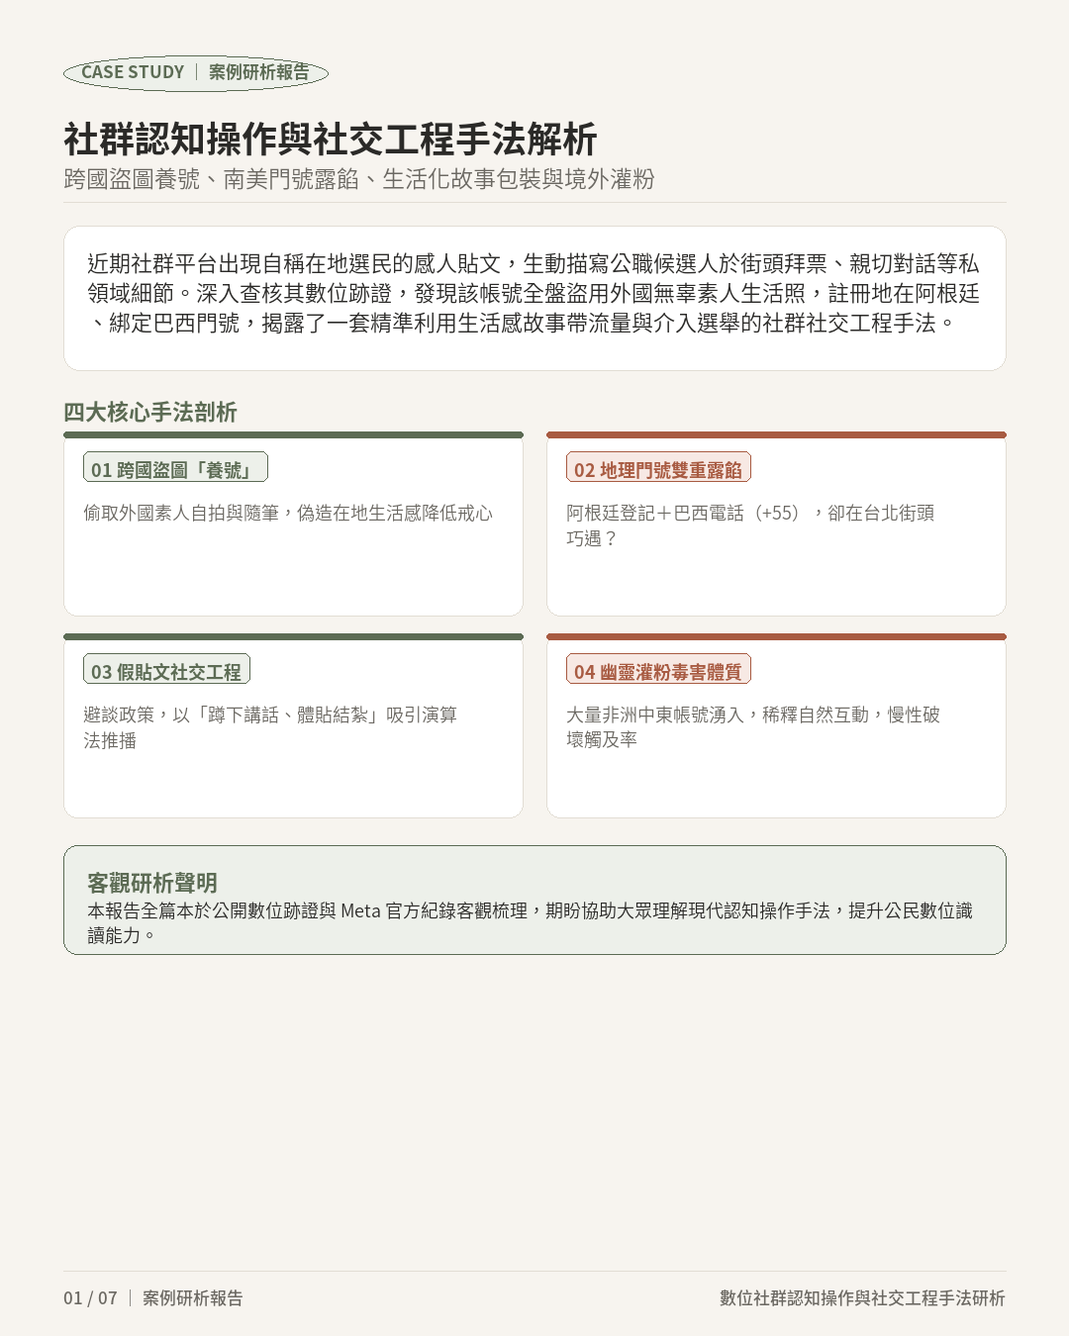
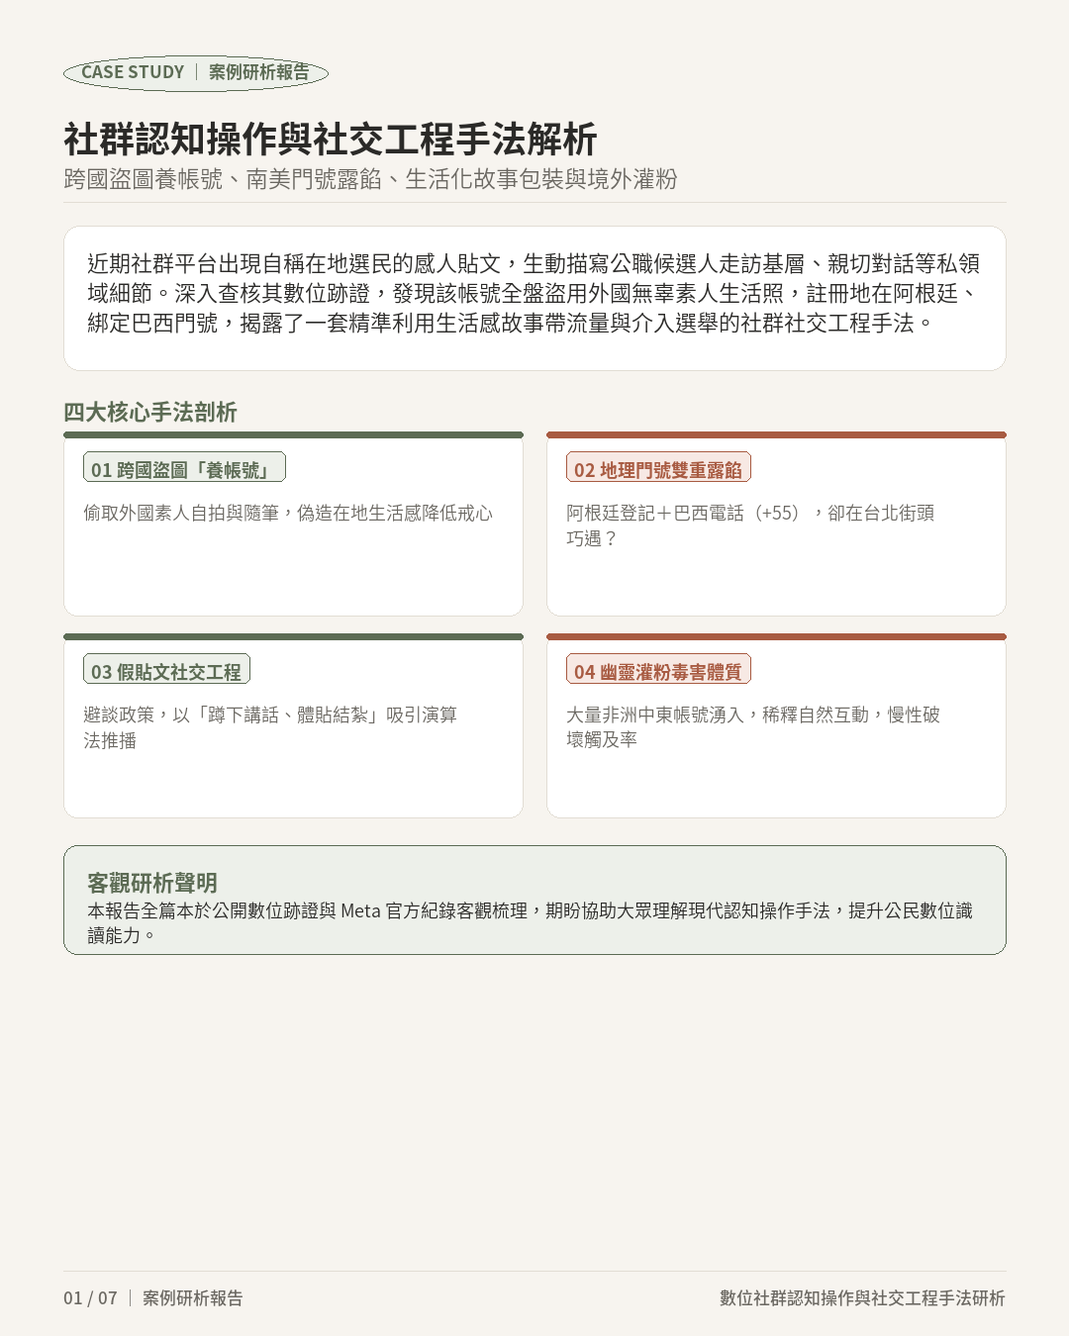
refactor: 移除網頁圖卡速覽直進手法解析，用詞統一為養帳號與居民居家拍攝照片

Changed region(s): [[0.0611, 0.1867, 0.9167, 0.2489], [0.1528, 0.1244, 0.6417, 0.1556], [0.2139, 0.3422, 0.2444, 0.3733]]

diff --git a/index.html b/index.html
@@ -7,7 +7,7 @@
   <title>境外假帳號認知操作與社交工程手法案例解析 ｜ 數位跡證深度觀察</title>
   <meta name="description" content="深入解析境外免洗帳號如何跨國盜用外國素人生活照偽造真人人設、綁定南美洲門號卻編造在地巧遇貼文進行社交工程與引流，以及社群灌粉對演算法體質的長期影響。">
   <meta property="og:title" content="境外假帳號認知操作與社交工程手法案例解析">
-  <meta property="og:description" content="跨國盜圖養號、南美洲門號註冊、假貼文引流與社群灌粉毒化演算法之完整數位跡證剖析。">
+  <meta property="og:description" content="跨國盜圖養帳號、南美洲門號註冊、假貼文引流與社群灌粉毒化演算法之完整數位跡證剖析。">
   <meta property="og:type" content="website">
   <meta property="og:image" content="https://huanhsu15tw.github.io/mingyo-social-observation/assets/img/card_01_identity_theft.png">
   <meta name="twitter:card" content="summary_large_image">
@@ -871,7 +871,6 @@
       </div>
       <nav class="nav-links">
         <a href="#summary">案例總覽</a>
-        <a href="#cards">分析圖卡</a>
         <a href="#theft">跨國盜圖</a>
         <a href="#location">門號現形</a>
         <a href="#harm">社交工程</a>
@@ -895,9 +894,9 @@
         </h1>
 
         <div class="hero-lead">
-          <p>近期社群平台 Threads 出現一則自稱在地選民的感人貼文，以第一人稱描寫某直轄市議員候選人於巷口拜票、蹲下親切與幼童互動並提及家庭私領域細節，引發社群演算法推播與轉傳。</p>
+          <p>近期社群平台 Threads 出現一則自稱在地選民的感人貼文，以第一人稱描寫某直轄市議員候選人走訪基層、蹲下親切與幼童互動並提及家庭私領域細節，引發社群演算法推播與轉傳。</p>
           <p>然而檢視發文帳號的數位軌跡，卻發現該帳號存在嚴重的身分偽造特徵：其大頭貼與日常生活隨筆，全盤盜用自馬來西亞真實民眾的社群發文；進一步查驗其註冊資料，Meta 官方透明度紀錄顯示其所在地為阿根廷，系統簡訊驗證綁定之行動電話國碼更顯示為巴西（+55）。</p>
-          <p>本案呈現了現代社群認知操作中典型的「社交工程」與「養號」手法：透過採購境外免洗人頭帳號，竊取真實外國民眾的居家照片營造「真人生活感」以降低防備心，再藉由編造具情緒渲染力的生活化故事吸引演算法流量、置入特定公關宣傳，甚至介入公職選舉。</p>
+          <p>本案呈現了現代社群認知操作中典型的「社交工程」與「養帳號」手法：透過採購境外免洗人頭帳號，竊取真實外國民眾的居家照片營造「真人生活感」以降低防備心，再藉由編造具情緒渲染力的生活化故事吸引演算法流量、置入特定公關宣傳，甚至介入公職選舉。</p>
           <p>與此同時，被宣傳之候選人官方社群同期亦出現大量來自非洲、中東等境外幽靈帳號集體追蹤。數位行銷與演算法機制顯示，這類缺乏真實互動的灌粉行為，會直接稀釋抽樣互動率，對社群帳號的長期健康度造成實質傷害。</p>
           <p>本報告秉持中立與客觀原則，完整梳理本起案例涉及的跨國帳號足跡、盜圖比對、套版唱和留言與灌粉數據，期盼協助各界了解新型態境外社群操作手法，提升全民對數位訊息的識讀與辨識能力。</p>
         </div>
@@ -905,7 +904,7 @@
         <div class="meta-box">
           <div class="meta-item">
             <div class="meta-label">涉案操作手法</div>
-            <div class="meta-value">跨國盜圖養號 ｜ 假貼文社交工程引流 ｜ 境外幽靈灌粉</div>
+            <div class="meta-value">跨國盜圖養帳號 ｜ 假貼文社交工程引流 ｜ 境外幽靈灌粉</div>
           </div>
           <div class="meta-item">
             <div class="meta-label">涉案發文帳號</div>
@@ -923,137 +922,12 @@
       </div>
     </section>
 
-    <!-- Section 1: Comparison Cards -->
-    <section class="content-section" id="cards">
-      <div class="container">
-        <div class="section-header narrow-container">
-          <div class="section-eyebrow">Visual Analysis</div>
-          <h2 class="section-title">全套七張客觀分析圖卡速覽</h2>
-          <p class="section-desc">已整理為七張標準社群比例圖卡（1080×1350），完整呈現原始截圖不裁切，供關心公共討論與數位生態的各界朋友自由傳閱下載。</p>
-        </div>
-
-        <div class="cards-grid">
-          <!-- Card 1 -->
-          <article class="card-item">
-            <div class="card-preview" onclick="openModal('assets/img/card_01_cover.png')">
-              <img src="assets/img/card_01_cover.webp" alt="圖卡一：案例總覽：社群認知操作與社交工程手法解析" loading="lazy">
-            </div>
-            <div class="card-info">
-              <span class="card-badge">圖卡 01 ｜ 案例總覽篇</span>
-              <h3 class="card-title">社群認知操作與社交工程手法解析</h3>
-              <p class="card-desc">全篇報告綱要：跨國盜圖養號、南美門號露餡、生活化故事包裝與境外灌粉。梳理境外人頭帳號如何偽造台灣選民介入選舉。</p>
-              <div class="card-actions">
-                <a href="assets/img/card_01_cover.png" download class="btn-primary">下載 PNG 原圖</a>
-                <a href="assets/img/card_01_cover.webp" download class="btn-outline">下載 WebP</a>
-              </div>
-            </div>
-          </article>
-
-          <!-- Card 2 -->
-          <article class="card-item">
-            <div class="card-preview" onclick="openModal('assets/img/card_02_identity_theft.png')">
-              <img src="assets/img/card_02_identity_theft.webp" alt="圖卡二：手法一：偷取外國素人自拍隨筆，偽造在地生活感" loading="lazy">
-            </div>
-            <div class="card-info">
-              <span class="card-badge">圖卡 02 ｜ 跨國盜圖篇</span>
-              <h3 class="card-title">偷取外國素人自拍隨筆，偽造在地生活感</h3>
-              <p class="card-desc">比對受害本尊 @lokejiaen 與涉案假帳號。直接截取外國素人 9/13 居家生活自拍照做為頭貼，簡體隨筆改寫為繁體「養號」，營造真實生活感降低戒心。</p>
-              <div class="card-actions">
-                <a href="assets/img/card_02_identity_theft.png" download class="btn-primary">下載 PNG 原圖</a>
-                <a href="assets/img/card_02_identity_theft.webp" download class="btn-outline">下載 WebP</a>
-              </div>
-            </div>
-          </article>
-
-          <!-- Card 3 -->
-          <article class="card-item">
-            <div class="card-preview" onclick="openModal('assets/img/card_03_location_and_phone.png')">
-              <img src="assets/img/card_03_location_and_phone.webp" alt="圖卡三：手法二：阿根廷登記＋巴西門號，卻在台北巷口巧遇？" loading="lazy">
-            </div>
-            <div class="card-info">
-              <span class="card-badge">圖卡 03 ｜ 地理與門號篇</span>
-              <h3 class="card-title">阿根廷登記＋巴西門號，卻在台北巷口巧遇？</h3>
-              <p class="card-desc">雙重破綻無所遁形：Meta 官方透明度標記帳號所在地為阿根廷，密碼驗證代碼更傳送至巴西國碼（+55）手機號碼，證實為境外免洗人頭帳號。</p>
-              <div class="card-actions">
-                <a href="assets/img/card_03_location_and_phone.png" download class="btn-primary">下載 PNG 原圖</a>
-                <a href="assets/img/card_03_location_and_phone.webp" download class="btn-outline">下載 WebP</a>
-              </div>
-            </div>
-          </article>
-
-          <!-- Card 4 -->
-          <article class="card-item">
-            <div class="card-preview" onclick="openModal('assets/img/card_04_social_engineering_post.png')">
-              <img src="assets/img/card_04_social_engineering_post.webp" alt="圖卡四：手法三：避開生硬政策，用生活私領域細節吸引推播" loading="lazy">
-            </div>
-            <div class="card-info">
-              <span class="card-badge">圖卡 04 ｜ 社交工程貼文篇</span>
-              <h3 class="card-title">避開生硬政策，用生活私領域細節吸引推播</h3>
-              <p class="card-desc">拆解貼文三大話術：自稱在地選民巧遇、生動刻劃「蹲下跟小孩說話」、置入「體貼妻子主動結紮」私事，精準利用社交心理學觸動社群演算法推播。</p>
-              <div class="card-actions">
-                <a href="assets/img/card_04_social_engineering_post.png" download class="btn-primary">下載 PNG 原圖</a>
-                <a href="assets/img/card_04_social_engineering_post.webp" download class="btn-outline">下載 WebP</a>
-              </div>
-            </div>
-          </article>
-
-          <!-- Card 5 -->
-          <article class="card-item">
-            <div class="card-preview" onclick="openModal('assets/img/card_05_comment_manipulation.png')">
-              <img src="assets/img/card_05_comment_manipulation.webp" alt="圖卡五：手法四：留言搭腔超不誠懇、無真人味" loading="lazy">
-            </div>
-            <div class="card-info">
-              <span class="card-badge">圖卡 05 ｜ 套版留言唱和篇</span>
-              <h3 class="card-title">留言搭腔超不誠懇、無真人味</h3>
-              <p class="card-desc">三組留言實證分析：秒回「好感度+1」、刻意附和「有同感~」、硬塞「體貼的男人會發財」金句。一搭一唱公式化對答，毫無真人生活味。</p>
-              <div class="card-actions">
-                <a href="assets/img/card_05_comment_manipulation.png" download class="btn-primary">下載 PNG 原圖</a>
-                <a href="assets/img/card_05_comment_manipulation.webp" download class="btn-outline">下載 WebP</a>
-              </div>
-            </div>
-          </article>
-
-          <!-- Card 6 -->
-          <article class="card-item">
-            <div class="card-preview" onclick="openModal('assets/img/card_06_algorithm_poisoning.png')">
-              <img src="assets/img/card_06_algorithm_poisoning.webp" alt="圖卡六：手法五：境外幽靈灌粉：毒害粉專演算法健康度" loading="lazy">
-            </div>
-            <div class="card-info">
-              <span class="card-badge">圖卡 06 ｜ 演算法毒害篇</span>
-              <h3 class="card-title">境外幽靈灌粉：毒害粉專演算法健康度</h3>
-              <p class="card-desc">埃及開羅、安哥拉等跨國幽靈粉集體湧入。剖析三大傷害機制：抽樣互動崩潰壓低觸及、受眾輪廓失真廣告失效、粉專向在地擴散體質遭慢性破壞。</p>
-              <div class="card-actions">
-                <a href="assets/img/card_06_algorithm_poisoning.png" download class="btn-primary">下載 PNG 原圖</a>
-                <a href="assets/img/card_06_algorithm_poisoning.webp" download class="btn-outline">下載 WebP</a>
-              </div>
-            </div>
-          </article>
-
-          <!-- Card 7 -->
-          <article class="card-item">
-            <div class="card-preview" onclick="openModal('assets/img/card_07_citizen_guide.png')">
-              <img src="assets/img/card_07_citizen_guide.webp" alt="圖卡七：數位公民識讀：辨識境外假帳號的三個關鍵數位跡證" loading="lazy">
-            </div>
-            <div class="card-info">
-              <span class="card-badge">圖卡 07 ｜ 公民識讀指南篇</span>
-              <h3 class="card-title">辨識境外假帳號的三個關鍵數位跡證</h3>
-              <p class="card-desc">三大自我查驗實用步驟：查驗 Meta 透明度（註冊地與更名）、反向圖搜頭貼日常照（查驗素人盜圖）、檢視發文脈絡與留言氛圍（識別套版唱和）。</p>
-              <div class="card-actions">
-                <a href="assets/img/card_07_citizen_guide.png" download class="btn-primary">下載 PNG 原圖</a>
-                <a href="assets/img/card_07_citizen_guide.webp" download class="btn-outline">下載 WebP</a>
-              </div>
-            </div>
-          </article>
-        </div>
-      </div>
-    </section>
-
     <!-- Section 2: Identity Theft -->
     <section class="content-section" id="theft">
       <div class="container narrow-container">
         <div class="section-header">
           <div class="section-eyebrow">Case 01 ｜ Profile Spoofing</div>
-          <h2 class="section-title">手法解析一：跨國盜圖「養號」——偷取外國素人居家自拍營造真人感</h2>
+          <h2 class="section-title">手法解析一：跨國盜圖「養帳號」——偷取外國素人居家自拍營造真人感</h2>
           <p class="section-desc">分析境外操作者如何全盤剽竊外國民眾日常自拍與生活隨筆，藉由繁簡轉換與人設包裝，規避社群平台偵測並降低讀者戒心。</p>
         </div>
 
@@ -1149,7 +1023,7 @@
                 <li><span class="label">抄襲發布時間</span><span class="val">10 月 7 日（相隔數天後抄襲）</span></li>
                 <li><span class="label">抄襲改寫</span><span class="val">簡轉繁：「瀏海尷尬期..還曬黑好討厭」</span></li>
                 <li><span class="label">亦步亦趨抄襲</span><span class="val">前篇串文照抄寫「Onward / Sept」</span></li>
-                <li><span class="label">操作目的</span><span class="val" style="color:var(--c-rust);">俗稱「養號」，營造常人生活感降低戒心</span></li>
+                <li><span class="label">操作目的</span><span class="val" style="color:var(--c-rust);">俗稱「養帳號」，營造常人生活感降低戒心</span></li>
               </ul>
             </div>
           </div>
@@ -1291,9 +1165,9 @@
         </div>
 
         <div class="callout-box">
-          <div class="callout-title">技術研析：社群「養號」與真人感偽裝的運作機制</div>
+          <div class="callout-title">技術研析：社群「養帳號」與真人感偽裝的運作機制</div>
           <div class="callout-body">
-            社群平台防偽機制通常會對新註冊、零貼文的帳號進行流量限制。為規避風控，操作者往往會先進行「養號」程序，發布數則無關政治的生活瑣事，甚至直接盜用外國素人的自拍與生活隨筆。這種手法企圖在短時間內製造出「常人生活」的錯覺，使後續發布的政治宣傳或引流貼文能取得較高信任度。然而，發文習慣、用字轉化與圖片來源的破綻，在交叉查驗下依舊清晰可辨。
+            社群平台防偽機制通常會對新註冊、零貼文的帳號進行流量限制。為規避風控，操作者往往會先進行「養帳號」程序，發布數則無關政治的生活瑣事，甚至直接盜用外國素人的自拍與生活隨筆。這種手法企圖在短時間內製造出「常人生活」的錯覺，使後續發布的政治宣傳或引流貼文能取得較高信任度。然而，發文習慣、用字轉化與圖片來源的破綻，在交叉查驗下依舊清晰可辨。
           </div>
         </div>
       </div>
@@ -1409,7 +1283,7 @@
             <span class="step-number">02</span>
             <h3 class="step-title">適得其反，抹煞真實基層汗水</h3>
             <p class="step-desc">
-              基層議員候選人每天實地站路口、跑行程、挨家挨戶握手拜票，本是非常踏實的耕耘。但這種假藉「巷口偶遇」的劇本式發文，只會讓選民產生「原來你們都在演」的負面聯想，嚴重傷害候選人的人設與誠信。
+              公職候選人實地走訪基層、傾聽居民心聲，本是正常的在地耕耘。但這種假藉「巷口偶遇」、拿居民家中拍攝照片編造劇本式故事的手法，只會讓民眾產生造假宣傳的負面觀感。
             </p>
           </div>
 
@@ -1446,11 +1320,11 @@
 
           <div class="post-asset-card">
             <div class="post-asset-img-box" onclick="openModal('assets/img/853815021_18102607205302835_4160519234076034941_n.webp')">
-              <img src="assets/img/853815021_18102607205302835_4160519234076034941_n.webp" alt="發文搭配之掃街拜票原照" loading="lazy">
+              <img src="assets/img/853815021_18102607205302835_4160519234076034941_n.webp" alt="發文搭配之居民居家拍攝照片" loading="lazy">
             </div>
             <div class="post-asset-info">
-              <div class="post-asset-title">發文搭配之拜票原照</div>
-              <p class="post-asset-desc">涉案貼文配搭之某公職候選人街頭拜票照片原圖。</p>
+              <div class="post-asset-title">發文搭配之居民居家拍攝照片</div>
+              <p class="post-asset-desc">涉案貼文配搭之某公職候選人於居民家中拍攝照片原圖。</p>
             </div>
           </div>
         </div>

diff --git a/generate_threads_cards.py b/generate_threads_cards.py
@@ -157,12 +157,12 @@ def generate_card_01(output_path):
         draw,
         "CASE STUDY ｜ 案例研析報告",
         "社群認知操作與社交工程手法解析",
-        "跨國盜圖養號、南美門號露餡、生活化故事包裝與境外灌粉"
+        "跨國盜圖養帳號、南美門號露餡、生活化故事包裝與境外灌粉"
     )
     
     box_w = WIDTH - 128
     overview_text = (
-        "近期社群平台出現自稱在地選民的感人貼文，生動描寫公職候選人於街頭拜票、親切對話等私領域細節。"
+        "近期社群平台出現自稱在地選民的感人貼文，生動描寫公職候選人走訪基層、親切對話等私領域細節。"
         "深入查核其數位跡證，發現該帳號全盤盜用外國無辜素人生活照，註冊地在阿根廷、綁定巴西門號，"
         "揭露了一套精準利用生活感故事帶流量與介入選舉的社群社交工程手法。"
     )
@@ -178,7 +178,7 @@ def generate_card_01(output_path):
     card_h = 186
     
     modules = [
-        ("01 跨國盜圖「養號」", "偷取外國素人自拍與隨筆，偽造在地生活感降低戒心", C_MOSS_LIGHT, C_MOSS),
+        ("01 跨國盜圖「養帳號」", "偷取外國素人自拍與隨筆，偽造在地生活感降低戒心", C_MOSS_LIGHT, C_MOSS),
         ("02 地理門號雙重露餡", "阿根廷登記＋巴西電話（+55），卻在台北街頭巧遇？", C_RUST_LIGHT, C_RUST),
         ("03 假貼文社交工程", "避談政策，以「蹲下講話、體貼結紮」吸引演算法推播", C_MOSS_LIGHT, C_MOSS),
         ("04 幽靈灌粉毒害體質", "大量非洲中東帳號湧入，稀釋自然互動，慢性破壞觸及率", C_RUST_LIGHT, C_RUST)
@@ -220,7 +220,7 @@ def generate_card_02(output_path):
     
     y = draw_header(
         draw,
-        "METHOD 01 ｜ 跨國盜圖「養號」",
+        "METHOD 01 ｜ 跨國盜圖「養帳號」",
         "偷取外國素人自拍隨筆，偽造在地生活感",
         "盜用馬來西亞女性 9/13 居家自拍作頭貼，簡體隨筆改寫成繁體"
     )
@@ -265,7 +265,7 @@ def generate_card_02(output_path):
         
     draw_text_multiline(
         draw,
-        "直接截取同一張自拍照做為個人頭貼，並將簡體字隨筆改寫為繁體「養號」，營造真實生活感。",
+        "直接截取同一張自拍照做為個人頭貼，並將簡體字隨筆改寫為繁體「養帳號」，營造真實生活感。",
         rx + 20, y + 520, col_w - 40, font_sm, C_INK, line_spacing=6
     )
     
@@ -277,7 +277,7 @@ def generate_card_02(output_path):
     draw.text((88, y + 18), "手法解析：跨國搬運建立「無害人設」", font=font_body_bold, fill=C_MOSS)
     ana_desc = (
         "現代社群防偽機制對純空頭帳號極為敏感。網軍為規避平台偵測並博取大眾信任，"
-        "專門跨國搜尋語言相近、追蹤數不高的外國素人，整套搬運自拍與生活隨筆進行「養號」，"
+        "專門跨國搜尋語言相近、追蹤數不高的外國素人，整套搬運自拍與生活隨筆進行「養帳號」，"
         "藉此塑造親切無害的鄰家女子形象，為後續置入宣傳鋪路。"
     )
     draw_text_multiline(draw, ana_desc, 88, y + 50, box_w - 48, font_sm, C_INK, line_spacing=6)

diff --git a/MEMORY.md b/MEMORY.md
@@ -19,20 +19,29 @@
 - **原因**：使用者 2026-10-18 指出切圖會破壞存證真實性，完整全螢幕截圖才能呈現完整證據鏈。
 - **怎麼套用**：圖卡排版採用比例縮放（等比例 fit inside）居中置放；網頁 CSS 全面採用 `object-fit: contain`，並提供高解析度彈窗檢視。
 
-### 3. Threads 社群規格圖卡與文案
+### 3. 用詞規範：「養帳號」與「居民居家拍攝照片」
+- **規則**：
+  1. 一律使用「養帳號」，不用簡稱「養號」。
+  2. 涉案貼文所搭配之照片，一律標註為「居民居家拍攝照片」，不得寫成街頭拜票照。
+- **原因**：使用者 2026-10-18 明確要求統一用詞並精準糾正照片事實。
+- **怎麼套用**：網頁、圖卡、Threads 文案全數對齊此規範。
+
+### 4. 網頁版面直進手法解析一
+- **規則**：網頁版面移除圖卡速覽區塊，前言導論後直接進入「手法解析一：跨國盜圖養帳號」。
+- **原因**：使用者 2026-10-18 要求精簡網頁動線，直接進入案件剖析。
+- **怎麼套用**：刪除 `index.html` 中的 `#cards` 區塊，導覽列相應調整。
+
+### 5. Threads 社群規格圖卡與文案
 - **規則**：產出適合 Threads 社群規格（4:5 直式，1080×1350 px）的 7 張系列圖卡，並產出對應的 7 則純文字串文文案（threads_posts.txt）。
 - **原因**：使用者 2026-10-18 要求做可以在 Threads 上發表的社群貼圖與貼文，傳播此類認知操作與介選手法。
 - **怎麼套用**：圖卡使用 SourceHanSansTC 字型，遵循 Huan Design System 紙感低飽和色票；貼文嚴格通過 `tw-ai-flavor-check`，零 emoji、無 Markdown 符號、無對岸黑話、無浮誇詞。
 
-### 4. 納入巴西國碼門號截圖（+55）
+### 6. 納入巴西國碼門號截圖（+55）
 - **規則**：納入 `假帳號電話.jpg`，作為與阿根廷 Meta 登記地互為印證的南美洲境外帳號生態圈鐵證。
 - **原因**：使用者 2026-10-18 提供該照片，顯示密碼重設驗證代碼傳送至 `+55 ** *****_**85` 巴西門號。
 - **怎麼套用**：網頁實證對照 08 與 Threads 圖卡 03 均加入該截圖。
 
-### 5. 留言唱和區標題與分析定調
+### 7. 留言唱和區標題與分析定調
 - **規則**：實證三留言區標題定為「留言搭腔超不誠懇、無真人味」，不用過度詳解，展示其一搭一唱、套版金句的刻意感即可。
 - **原因**：使用者 2026-10-18 明確指示標題與呈現方式。
 - **怎麼套用**：網頁與圖卡 05 均以此標題與 3-5 組精選截圖呈現。
-
-### 6. 候選人選區歷史紀錄
-- **規則**：若有特定脈絡需要標記行政區，依 2026-10-18 糾正為「中正萬華」，非大安文山。在中性化版本中則簡化為「某直轄市議員候選人」。
